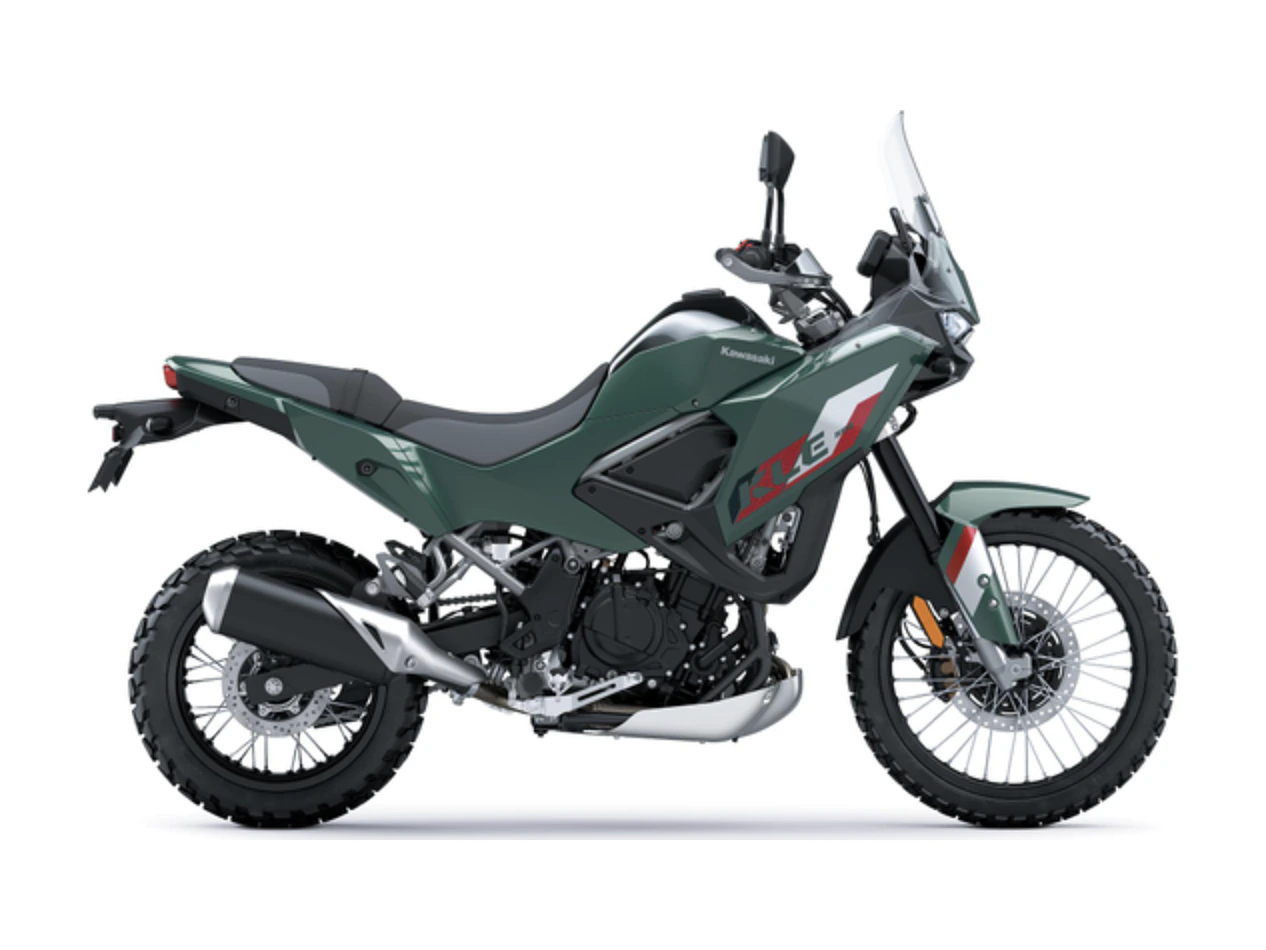
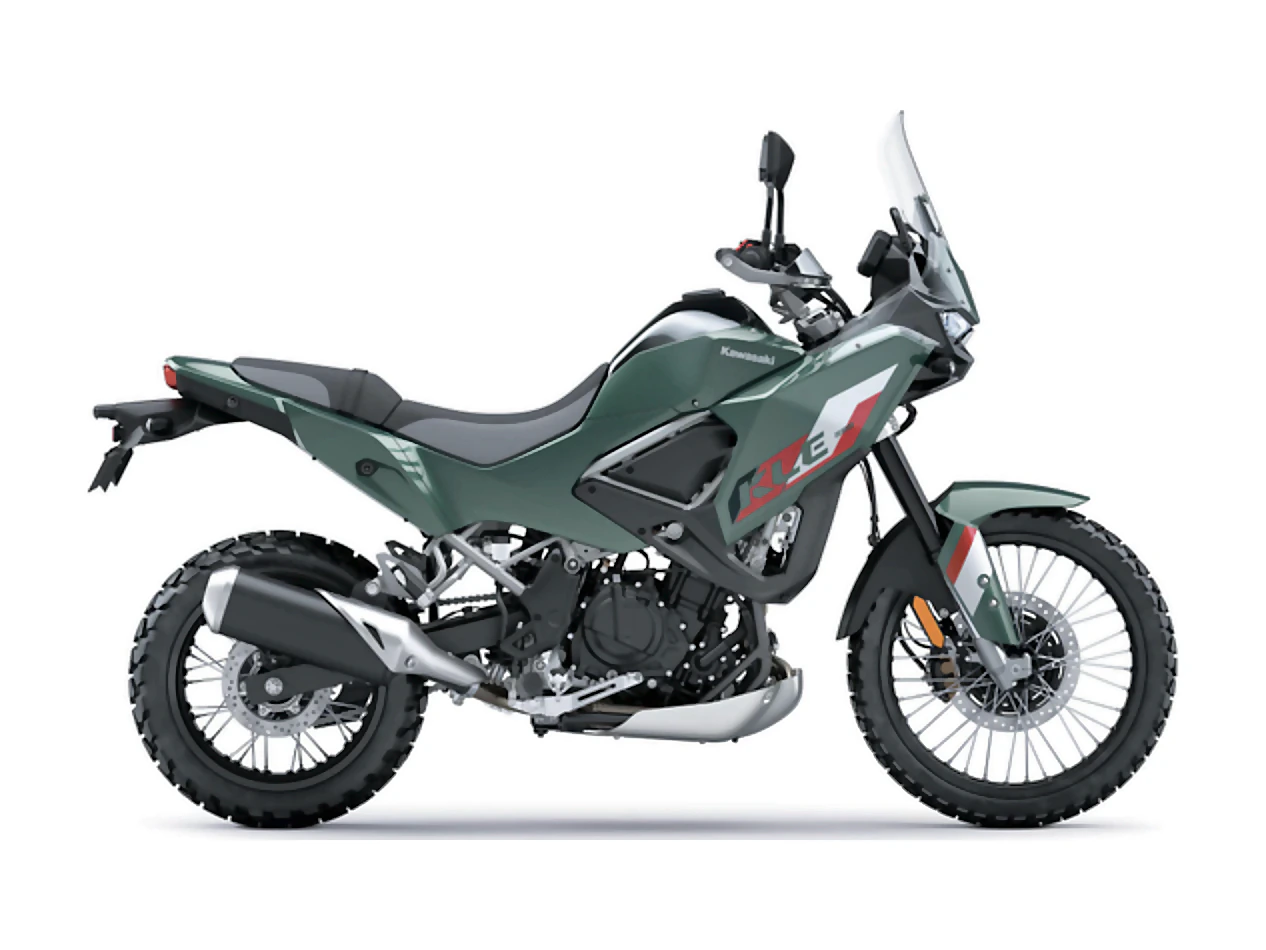
content: 1981 como ano de origen, contadores actualizados y portadas del KLE pulidas
- La casa arranca en 1981, no 1977: se corrige en el relato de Nosotros, en el
  pie de la foto ("Caracas · Venezuela · desde 1981") y en la descripcion de la
  pagina. "Mas de 49 anos" pasa a "45 anos y contando", que es lo que va de
  1981 a hoy.
- Contador de experiencia: 45 sin "+", porque son los anos exactos, no una
  aproximacion. "Suenos cumplidos" pasa a "Clientes satisfechos" y de +200 a
  +250.
- Las dos portadas del KLE 500 se restauran con scripts/polish-photo.py. NO es
  superresolucion y no se le anade a la moto nada que no estuviera: quita el
  ruido de compresion que traian las capturas de origen, devuelve
  microcontraste y afila solo los bordes reales (con mascara, para que el fondo
  blanco no salga con halos). La nitidez medida sube de 123 a 267 en la blanca
  y de 119 a 281 en la verde.

diff --git a/src/app/nosotros/page.tsx b/src/app/nosotros/page.tsx
@@ -7,10 +7,10 @@ import { withBasePath } from "@/lib/base-path";
 
 export const metadata: Metadata = {
   title: "Nosotros",
-  description: `Conoce la historia detrás de ${siteConfig.name}: de Moto Accesorios Baró (1977) al showroom de alta gama en el este de Caracas.`,
+  description: `Conoce la historia detrás de ${siteConfig.name}: de Moto Accesorios Baró (1981) al showroom de alta gama en el este de Caracas.`,
 };
 
-// Historia real de la casa (1977 → hoy). Redacción editorial sobre los hechos
+// Historia real de la casa (1981 → hoy). Redacción editorial sobre los hechos
 // entregados por el cliente. Foto propia (BMW GS Adventure en wheelie), sin
 // repetir ninguna otra imagen del sitio.
 export default function NosotrosPage() {
@@ -27,7 +27,7 @@ export default function NosotrosPage() {
       <div className="mt-14 grid grid-cols-1 gap-12 lg:grid-cols-5 lg:items-start lg:gap-16">
         <Reveal delay={0.1} className="lg:col-span-3">
           <p className="text-lg leading-relaxed text-brand-text/70">
-            Nuestra historia arranca en <span className="text-brand-navy">1977</span> con{" "}
+            Nuestra historia arranca en <span className="text-brand-navy">1981</span> con{" "}
             <span className="text-brand-navy">Moto Accesorios Baró</span>, la primera tienda de
             motos de la familia. Fuimos distribuidores oficiales de Yamaha hasta 2006 y hoy
             seguimos siendo distribuidores de Suzuki.
@@ -41,7 +41,7 @@ export default function NosotrosPage() {
             showroom.
           </p>
           <p className="mt-6 text-lg leading-relaxed text-brand-text/70">
-            Hoy, con más de <span className="text-brand-navy">49 años en el mundo motero y
+            Hoy, con <span className="text-brand-navy">45 años en el mundo motero y
             contando</span>, seguimos con la misma pasión: mucho más que solo motos.
           </p>
         </Reveal>
@@ -58,7 +58,7 @@ export default function NosotrosPage() {
             <div className="absolute inset-0 bg-gradient-to-t from-black/40 via-transparent to-transparent" />
           </div>
           <p className="mt-3 text-center font-mono text-xs tracking-[0.15em] text-brand-text/40 uppercase">
-            Caracas · Venezuela · desde 1977
+            Caracas · Venezuela · desde 1981
           </p>
         </Reveal>
       </div>

diff --git a/src/components/BrandStats.tsx b/src/components/BrandStats.tsx
@@ -45,8 +45,9 @@ function Counter({ target, prefix = "" }: { target: number; prefix?: string }) {
  */
 export default function BrandStats() {
   const stats = [
-    { target: 49, prefix: "+", label: "años de experiencia" },
-    { target: 200, prefix: "+", label: "Sueños cumplidos" },
+    // Sin "+": son los años exactos desde 1981, no una cifra aproximada.
+    { target: 45, prefix: "", label: "años de experiencia" },
+    { target: 250, prefix: "+", label: "Clientes satisfechos" },
     { target: 2, prefix: "", label: "tiendas en Caracas" },
     // Derivado del propio sitio para que nunca quede desactualizado. La
     // etiqueta es "Marcas" a secas: no todas son representaciones oficiales.

diff --git a/scripts/polish-photo.py b/scripts/polish-photo.py
@@ -1,0 +1,90 @@
+#!/usr/bin/env python3
+"""Limpia y afina una foto blanda sin inventarle detalle.
+
+Pensado para las portadas del KLE 500, que vienen de capturas de pantalla: el
+JPEG/WebP de origen dejó "papilla" en las zonas planas y los filos llegaron
+romos. Esto NO es superresolución — no añade nada que no estuviera: solo quita
+el ruido de compresión, devuelve microcontraste y afila los bordes reales.
+
+Tres pasos, en este orden:
+  1. Suavizado que respeta los bordes, para que el paso 3 no amplifique ruido.
+  2. Microcontraste local muy suave (CLAHE) sobre la luminosidad.
+  3. Máscara de enfoque APLICADA SOLO EN LOS BORDES. Sin esa máscara, el fondo
+     blanco y los degradados de la carrocería salen con halos y grano.
+
+Uso:  python3 scripts/polish-photo.py entrada.webp salida.webp [--calidad 92]
+"""
+
+import subprocess
+import sys
+import tempfile
+
+import cv2
+import numpy as np
+
+# Fuerza del enfoque. Por encima de ~0.9 empiezan a verse halos en el contorno
+# de la moto contra el blanco.
+SHARPEN_AMOUNT = 0.75
+SHARPEN_RADIUS = 1.4
+
+
+def decode(path: str) -> np.ndarray:
+    png = subprocess.run(["magick", path, "png:-"], capture_output=True, check=True).stdout
+    return cv2.imdecode(np.frombuffer(png, np.uint8), cv2.IMREAD_COLOR)
+
+
+def edge_mask(bgr: np.ndarray) -> np.ndarray:
+    """1 en los filos reales, 0 en superficies planas y en el fondo."""
+    gray = cv2.cvtColor(bgr, cv2.COLOR_BGR2GRAY)
+    gx = cv2.Sobel(gray, cv2.CV_32F, 1, 0, ksize=3)
+    gy = cv2.Sobel(gray, cv2.CV_32F, 0, 1, ksize=3)
+    mag = cv2.magnitude(gx, gy)
+    mag = cv2.GaussianBlur(mag, (0, 0), 1.6)
+    # Normaliza por un percentil alto y no por el máximo: un solo píxel extremo
+    # (un reflejo) aplanaría toda la máscara.
+    top = np.percentile(mag, 99.0)
+    return np.clip(mag / max(top, 1e-6), 0, 1)[..., None]
+
+
+def polish(bgr: np.ndarray) -> np.ndarray:
+    # 1. Ruido de compresión fuera, conservando los filos.
+    clean = cv2.bilateralFilter(bgr, d=7, sigmaColor=28, sigmaSpace=7)
+
+    # 2. Microcontraste en la luminosidad; los canales de color no se tocan
+    #    para no mover ni un tono real de la moto.
+    lab = cv2.cvtColor(clean, cv2.COLOR_BGR2LAB)
+    l, a, b = cv2.split(lab)
+    l = cv2.createCLAHE(clipLimit=1.15, tileGridSize=(8, 8)).apply(l)
+    clean = cv2.cvtColor(cv2.merge((l, a, b)), cv2.COLOR_LAB2BGR)
+
+    # 3. Enfoque guiado por la máscara de bordes.
+    blur = cv2.GaussianBlur(clean, (0, 0), SHARPEN_RADIUS)
+    detail = clean.astype(np.float32) - blur.astype(np.float32)
+    out = clean.astype(np.float32) + SHARPEN_AMOUNT * detail * edge_mask(clean)
+    return np.clip(out, 0, 255).astype(np.uint8)
+
+
+def sharpness(bgr: np.ndarray) -> float:
+    return cv2.Laplacian(cv2.cvtColor(bgr, cv2.COLOR_BGR2GRAY), cv2.CV_64F).var()
+
+
+def main():
+    src, dst = sys.argv[1], sys.argv[2]
+    quality = "92"
+    if "--calidad" in sys.argv:
+        quality = sys.argv[sys.argv.index("--calidad") + 1]
+
+    original = decode(src)
+    result = polish(original)
+    print(f"{src}: nitidez {sharpness(original):.0f} -> {sharpness(result):.0f}")
+
+    with tempfile.NamedTemporaryFile(suffix=".png") as tmp:
+        cv2.imwrite(tmp.name, result)
+        subprocess.run(
+            ["cwebp", "-q", quality, "-sharp_yuv", "-m", "6", "-quiet", tmp.name, "-o", dst],
+            check=True,
+        )
+
+
+if __name__ == "__main__":
+    main()
